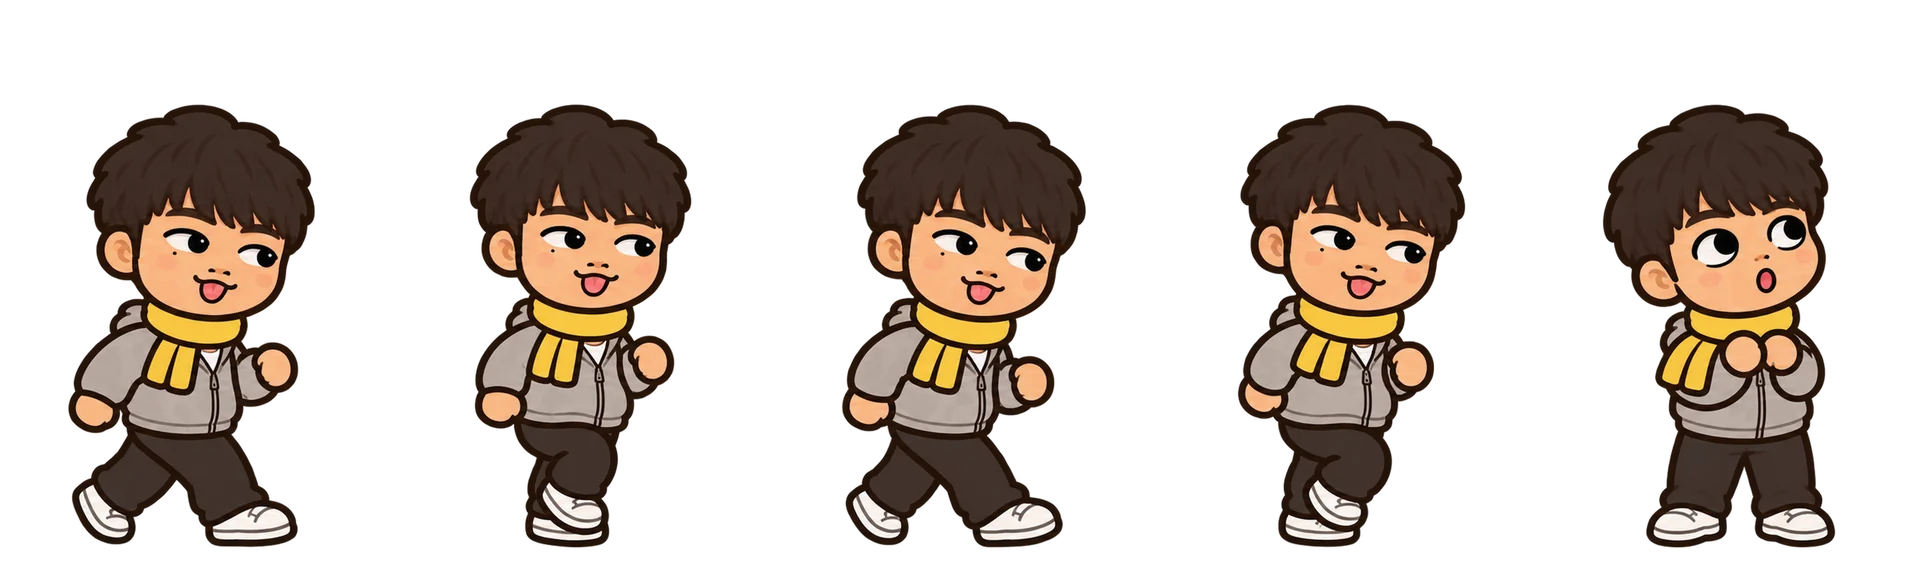
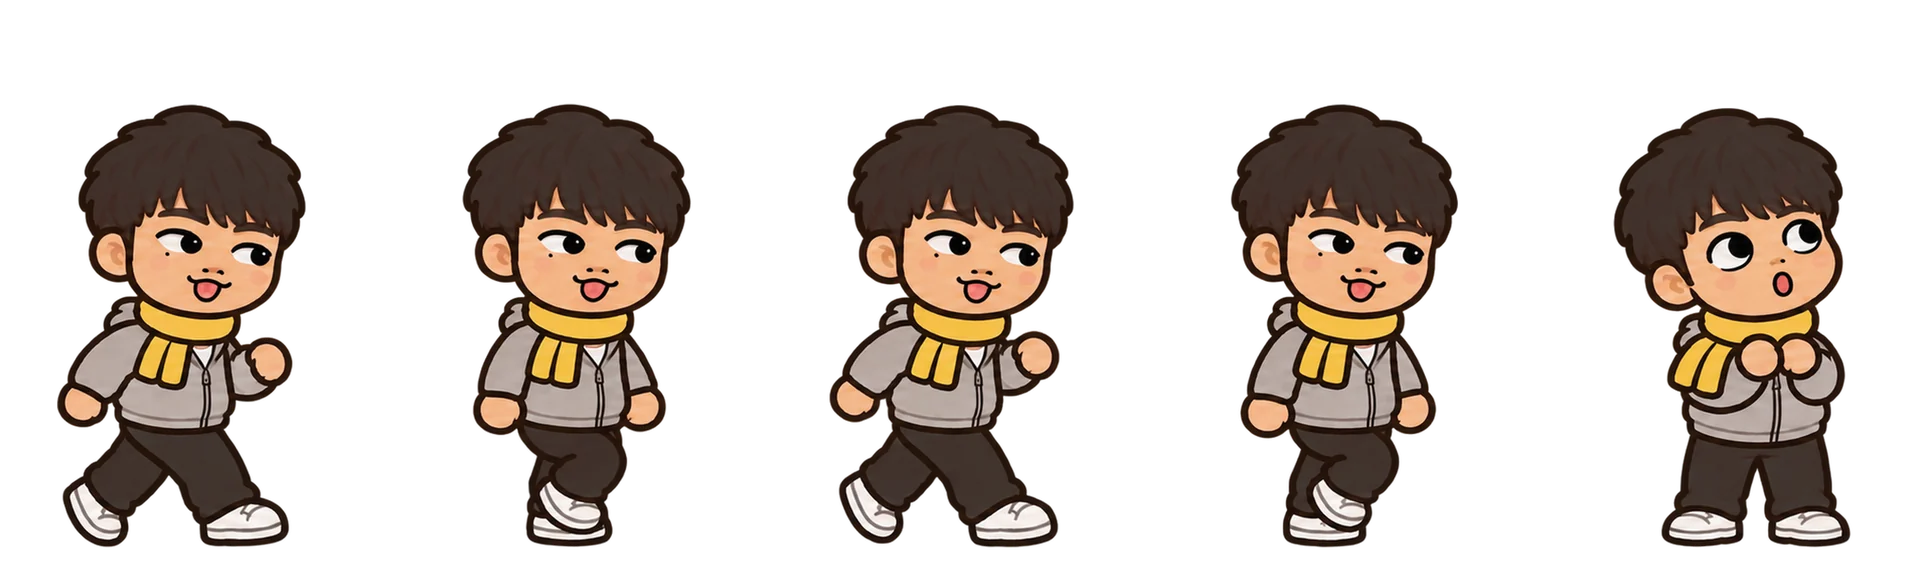
광장 주인장 걷기 v2: 머리 흔들림 줄임
- 그림 v2 (주인이 다시 받음)
- make_plaza_guests.py: 가장 높은 판(-vN)을 씀, 주인장은 칸마다 키를 맞추지 않고 한 배율 + 머리 가운데로 맞춤(큰 머리가 커졌다 작아졌다 하던 것)

Claude-Session: https://claude.ai/code/session_013gkWdjqDwwMfs8SrUNHEXQ

diff --git a/assets/briefs/PLAZA_OWNER_WALK_ART.md b/assets/briefs/PLAZA_OWNER_WALK_ART.md
@@ -1,6 +1,6 @@
 # 광장 주인장 걷기 스프라이트 지시서 v1 (PLAZA_OWNER_WALK_ART)
 
-> 상태: **지시서 씀 (2026-11-17).** 플랜 `PLAZA_PLAN.md` 4-3(손님). 형식은 `XMAS_PLAZA_GUEST_ART.md`와 같음.
+> 상태: **v2 받음 (2026-11-17).** v1은 팔이 안 바뀌고 머리가 흔들려 다시 받음(머리는 고쳐짐, 팔 엇갈림은 아직 약함). 웹 시트는 `tools/make_plaza_guests.py`가 가장 높은 판(-vN)을 쓰고, 주인장은 한 배율·머리 가운데 맞춤(HUMAN). 플랜 `PLAZA_PLAN.md` 4-3(손님). 형식은 `XMAS_PLAZA_GUEST_ART.md`와 같음.
 > 대상: 주인장 4명 × 5칸 = 시트 4장
 > 참고 그림(ChatGPT에 같이 붙임): `assets/plaza/guest-ref/<이름>-dance-ref.png`(인물) + `assets/plaza/guest-ref/walk-format-koala.png`(형식)
 
